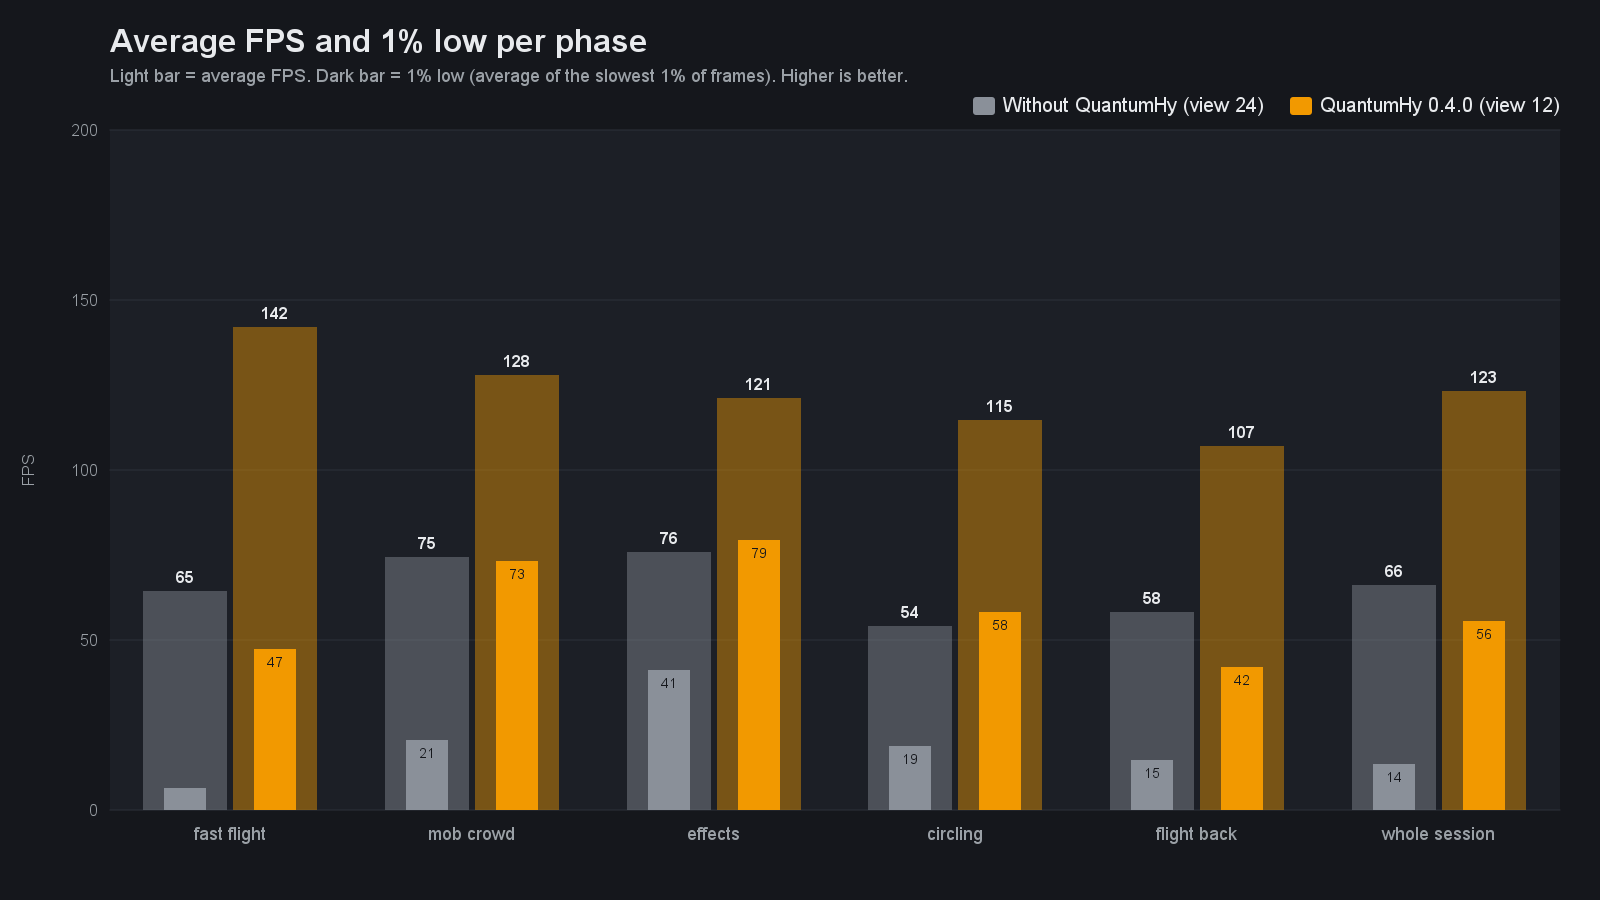
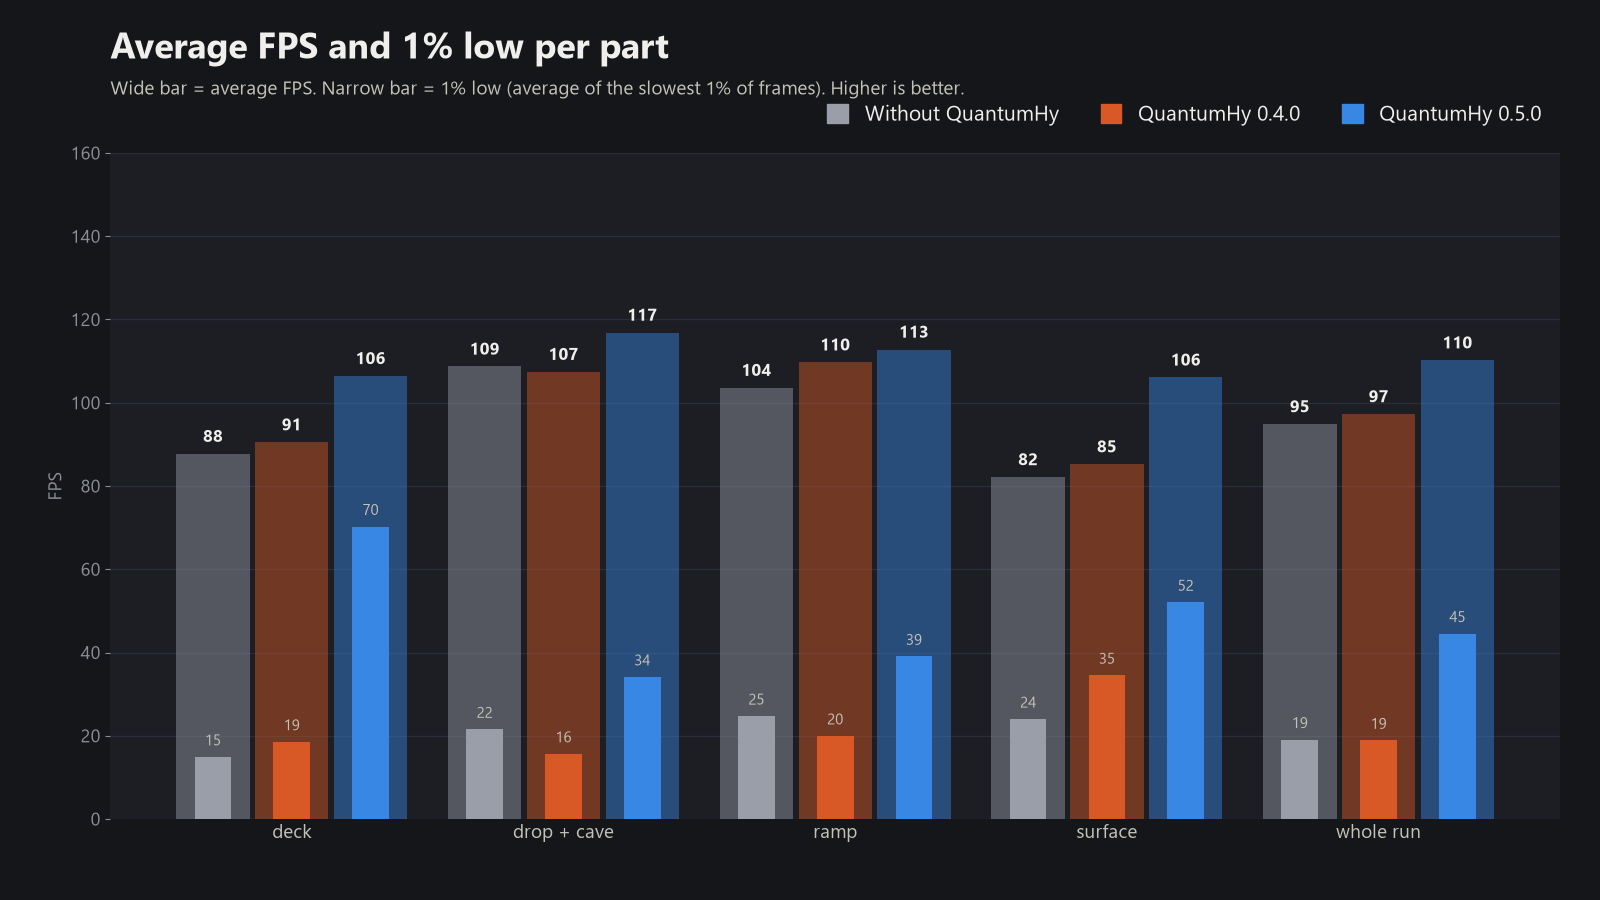
release: QuantumHy 0.5.0
Same view distance, fewer stutters: 1 frame over 100 ms versus
14 without the mod and 19 with 0.4.0 on the showcase route.

Restored sections near the player are now sent directly, so a
drop into a cave no longer stalls on a stone wall.

diff --git a/src/main/java/com/durkz/quantumhy/view/BuriedSectionFilter.java b/src/main/java/com/durkz/quantumhy/view/BuriedSectionFilter.java
@@ -4,6 +4,7 @@ import com.durkz.quantumhy.config.PlayerPreferences;
 import com.durkz.quantumhy.config.QuantumHyConfig;
 import com.hypixel.hytale.component.ArchetypeChunk;
 import com.hypixel.hytale.component.CommandBuffer;
+import com.hypixel.hytale.component.Ref;
 import com.hypixel.hytale.component.Store;
 import com.hypixel.hytale.component.query.Query;
 import com.hypixel.hytale.component.system.tick.EntityTickingSystem;
@@ -11,6 +12,7 @@ import com.hypixel.hytale.logger.HytaleLogger;
 import com.hypixel.hytale.math.vector.Transform;
 import com.hypixel.hytale.protocol.CachedPacket;
 import com.hypixel.hytale.protocol.Packet;
+import com.hypixel.hytale.protocol.ToClientPacket;
 import com.hypixel.hytale.protocol.packets.world.SetChunk;
 import com.hypixel.hytale.protocol.packets.world.SetColumn;
 import com.hypixel.hytale.protocol.packets.world.SetFluids;
@@ -21,11 +23,13 @@ import com.hypixel.hytale.server.core.modules.entity.player.ChunkTracker;
 import com.hypixel.hytale.server.core.universe.PlayerRef;
 import com.hypixel.hytale.server.core.universe.world.chunk.section.BlockSection;
 import com.hypixel.hytale.server.core.universe.world.chunk.section.FluidSection;
+import com.hypixel.hytale.server.core.universe.world.storage.ChunkStore;
 import com.hypixel.hytale.server.core.universe.world.storage.EntityStore;
 import io.netty.buffer.ByteBuf;
 import it.unimi.dsi.fastutil.ints.IntArrayList;
 import it.unimi.dsi.fastutil.longs.Long2IntMap;
 import it.unimi.dsi.fastutil.longs.Long2IntOpenHashMap;
+import it.unimi.dsi.fastutil.longs.LongArrayList;
 import it.unimi.dsi.fastutil.objects.ObjectIterator;
 
 import javax.annotation.Nonnull;
@@ -33,6 +37,7 @@ import javax.annotation.Nullable;
 import java.lang.foreign.MemorySegment;
 import java.lang.invoke.MethodHandles;
 import java.lang.invoke.VarHandle;
+import java.util.Arrays;
 import java.util.UUID;
 import java.util.concurrent.ConcurrentHashMap;
 import java.util.concurrent.atomic.LongAdder;
@@ -46,10 +51,13 @@ import java.util.function.Supplier;
  * dropped. The stand-in costs a few bytes and no meshing, while a real deep section carries caves,
  * ores, lava and aquifers the client would decode, mesh and keep in memory.
  *
- * The engine still thinks the real section was sent. {@link Restorer} asks the chunk tracker to
- * resend it ({@code removeForReload}) once the player comes within the near ring above it or drops
- * close to it, and this filter then lets the real packets through. Section packets are written one
- * by one through the single-packet path, so dropping one never leaves a hole in a batch.
+ * The engine still thinks the real section was sent. Once the player comes within the near ring
+ * above it or drops close to it, {@link Restorer} swaps it back, nearest first. Near-ring sections
+ * are written directly from the server's cached packets: the tracker's reload path waits behind
+ * everything a fall streams in, long enough for the player to walk into the stand-in. Farther
+ * sections go through the tracker ({@code removeForReload}) a few per pass, because a drop into a
+ * cave frees thousands of them at once and the client remeshes every one. Section packets are
+ * written one by one through the single-packet path, so dropping one never leaves a hole in a batch.
  */
 public final class BuriedSectionFilter implements PlayerPacketFilter {
 
@@ -139,6 +147,18 @@ public final class BuriedSectionFilter implements PlayerPacketFilter {
             REPLACED.increment();
         }
         return true;
+    }
+
+    private static void write(PlayerRef playerRef, @Nullable ToClientPacket packet) {
+        if (packet == null) {
+            return;
+        }
+        WRITING.set(Boolean.TRUE);
+        try {
+            playerRef.getPacketHandler().write(packet);
+        } finally {
+            WRITING.set(Boolean.FALSE);
+        }
     }
 
     /** Clears everything known about a player; their next column packets start fresh. */
@@ -288,9 +308,15 @@ public final class BuriedSectionFilter implements PlayerPacketFilter {
      */
     public final class Restorer extends EntityTickingSystem<EntityStore> {
         private static final int EVERY_TICKS = 6;
+        /** Near-ring sections the player can walk into, written directly each pass. */
+        static final int MAX_NEAR_PER_PASS = 64;
+        /** Sections outside the near ring, handed to the tracker each pass. */
+        static final int MAX_FAR_PER_PASS = 8;
         private final Query<EntityStore> query = Query.and(PlayerRef.getComponentType(),
                 Player.getComponentType(), ChunkTracker.getComponentType());
         private final IntArrayList reloads = new IntArrayList();
+        private final IntArrayList candidates = new IntArrayList();
+        private final LongArrayList order = new LongArrayList();
 
         @Override
         public Query<EntityStore> getQuery() {
@@ -320,12 +346,15 @@ public final class BuriedSectionFilter implements PlayerPacketFilter {
             double py = transform.getPosition().y;
             int pcx = (int) Math.floor(transform.getPosition().x) >> 5;
             int pcz = (int) Math.floor(transform.getPosition().z) >> 5;
+            int pcy = (int) Math.floor(py) >> 5;
             int near = settings.get().buriedSectionNearChunks;
             boolean optedOut = !preferences.isOptimizationEnabled(playerRef.getUuid());
             int forgetBeyond = Math.max(player.getViewRadius(), 1) + 3;
             // The engine writes section packets (and so runs this filter) while holding the tracker's
             // lock, so removeForReload must never be called while holding the state lock.
             reloads.clear();
+            candidates.clear();
+            order.clear();
             synchronized (state) {
                 ObjectIterator<Long2IntMap.Entry> it = state.replaced.long2IntEntrySet().fastIterator();
                 while (it.hasNext()) {
@@ -340,30 +369,72 @@ public final class BuriedSectionFilter implements PlayerPacketFilter {
                         continue;
                     }
                     int bits = entry.getIntValue();
-                    int keep = bits;
                     for (int y = 0; bits != 0; y++, bits >>>= 1) {
                         if ((bits & 1) != 0 && (optedOut || BuriedSectionPolicy.restore(y, py, ring, near))) {
-                            reloads.add(x);
-                            reloads.add(y);
-                            reloads.add(z);
-                            keep &= ~(1 << y);
+                            int distance = Math.max(ring, Math.abs(y - pcy));
+                            order.add((long) distance << 32 | candidates.size() / 3);
+                            candidates.add(x);
+                            candidates.add(y);
+                            candidates.add(z);
                         }
                     }
-                    if (keep == 0) {
-                        it.remove();
-                    } else if (keep != entry.getIntValue()) {
-                        entry.setValue(keep);
+                }
+                Arrays.sort(order.elements(), 0, order.size());
+                int nearLeft = MAX_NEAR_PER_PASS;
+                int farLeft = MAX_FAR_PER_PASS;
+                for (int i = 0; i < order.size() && (nearLeft > 0 || farLeft > 0); i++) {
+                    int at = (int) order.getLong(i) * 3;
+                    int x = candidates.getInt(at);
+                    int y = candidates.getInt(at + 1);
+                    int z = candidates.getInt(at + 2);
+                    boolean nearby = BuriedSectionPolicy.ring(x, z, pcx, pcz) <= near;
+                    if (nearby ? nearLeft-- <= 0 : farLeft-- <= 0) {
+                        continue;
                     }
+                    long column = key(x, z);
+                    int keep = state.replaced.get(column) & ~(1 << y);
+                    if (keep == 0) {
+                        state.replaced.remove(column);
+                    } else {
+                        state.replaced.put(column, keep);
+                    }
+                    reloads.add(x);
+                    reloads.add(y);
+                    reloads.add(z);
                 }
                 if (state.floors.size() > 4 * (forgetBeyond * 2 + 1) * (forgetBeyond * 2 + 1)) {
                     state.floors.long2IntEntrySet().removeIf(e -> BuriedSectionPolicy.ring(
                             (int) (e.getLongKey() >> 32), (int) e.getLongKey(), pcx, pcz) > forgetBeyond);
                 }
             }
+            ChunkStore chunks = store.getExternalData().getWorld().getChunkStore();
             for (int i = 0; i < reloads.size(); i += 3) {
-                tracker.removeForReload(reloads.getInt(i), reloads.getInt(i + 1), reloads.getInt(i + 2));
+                int x = reloads.getInt(i);
+                int y = reloads.getInt(i + 1);
+                int z = reloads.getInt(i + 2);
+                boolean nearby = BuriedSectionPolicy.ring(x, z, pcx, pcz) <= near;
+                // A column the client already dropped must not get a bare section packet.
+                if (!nearby || !tracker.isLoaded(x, y, z) || !sendReal(playerRef, chunks, x, y, z)) {
+                    tracker.removeForReload(x, y, z);
+                }
             }
             RESTORED.add(reloads.size() / 3);
+        }
+
+        /** Writes the server's cached packets for a loaded section; false when it is not loaded. */
+        private boolean sendReal(PlayerRef playerRef, ChunkStore chunks, int x, int y, int z) {
+            Ref<ChunkStore> ref = chunks.getChunkSectionReference(x, y, z);
+            if (ref == null || !ref.isValid()) {
+                return false;
+            }
+            BlockSection blocks = chunks.getStore().getComponent(ref, BlockSection.getComponentType());
+            FluidSection fluids = chunks.getStore().getComponent(ref, FluidSection.getComponentType());
+            if (blocks == null || fluids == null) {
+                return false;
+            }
+            blocks.getCachedChunkPacket(x, y, z).thenAccept(packet -> write(playerRef, packet));
+            fluids.getCachedPacket().thenAccept(packet -> write(playerRef, packet));
+            return true;
         }
     }
 }

diff --git a/README.md b/README.md
@@ -14,6 +14,8 @@ you are.
   backlog, visible entity pressure, and server MSPT instead.
 - `/q optimize off` disables every per-player lever for that player. Explicit server-wide admin
   controls such as world levers, spawn pause, and global LOD still affect the whole world.
+- Right after a long drop into a cave, the client rebuilds the terrain it had as stone. That can
+  cost a hitch or two before it settles.
 
 ## How it actually works
 
@@ -31,11 +33,13 @@ Two honest limits:
 ## What it does
 
 Every few seconds it checks how crowded the area around each player is (lots of entities means
-expensive to render) and turns that into one shrink factor for two levers: chunk view radius and
-entity stream radius.
+expensive to render) and shrinks the entity stream radius to match. Your chunk view radius stays
+where you set it. Terrain only gets trimmed after about 10 seconds of the client clearly falling
+behind, or while LeanCore reports memory pressure. If you want crowds to pull the view in as well,
+set `adaptiveTerrainViewEnabled` to `true`.
 
-- Packed area: both levers pull in toward the minimum. At full shrink the entity radius drops to
-  the floor in one pass, not over many ticks.
+- Packed area: the entity radius pulls in toward the minimum. At full shrink it drops to the floor
+  in one pass, not over many ticks.
 - Out in the open: expand is allowed only after load has been calm for a couple of passes, at least
   half the density scan is loaded, you are not flying, and the world is not hitching. Radius never
   jumps from min to full in one pass (at most +1 chunk per check).
@@ -52,6 +56,15 @@ instead of in one burst that makes the client hitch. That's the `smoothChunkStre
 
 On top of the radius it also:
 
+- Sends terrain buried under the surface as plain stone until you get close
+  (`buriedSectionStandInsEnabled`). Caves, ores and lava under your feet are hidden by the ground
+  anyway, so the view looks the same while the client skips building them. The real terrain comes
+  back as you walk up to it or drop toward it.
+- Runs the engine's light propagation through reusable buffers (`denseLightingEnabled`). On a
+  server build it doesn't recognize, the native lighting stays.
+- Keeps every visible chunk but limits simulation to 4 chunks around each player
+  (`simulationDistanceEnabled`). Gameplay further out pauses until someone gets closer.
+- Swaps goblin pipe smoke for a lighter copy with the same reach (`cosmeticSmokeBudgetEnabled`).
 - Caps the client's own draw distance and fog to the trimmed radius, so the client actually stops
   drawing what the server stopped sending (`clientRenderCapEnabled`).
 - Watches how fast each client answers the server and how many packets it has queued. A client
@@ -68,9 +81,14 @@ QuantumHy treats anyone else.
 
 ## Performance
 
-I played the same session twice on Hytale 0.7.0: once without QuantumHy, once with 0.4.0 on its
-default config. Same world, same path, same client settings, same PC. Frame times come straight
-from the Hytale client, captured with PresentMon (the capture tool inside CapFrameX).
+I walked the same route three times on Hytale 0.7.7: without QuantumHy, with 0.4.0 and with
+0.5.0. Same world, same path, same client settings (view distance 18), same PC, one game session,
+no screen recorder running. Frame times come straight from the Hytale client, captured with
+CapFrameX.
+
+0.5.0 ran its default config. 0.4.0 ran with terrain adaptation off (`adaptiveTerrainViewEnabled`
+and `emergencyTerrainTrimEnabled` set to `false`), so all three runs drew the same 18 chunks and
+the only difference is what each version does at that view distance.
 
 ### Test PC
 
@@ -80,31 +98,27 @@ from the Hytale client, captured with PresentMon (the capture tool inside CapFra
 | GPU | NVIDIA GeForce GTX 1650 4GB |
 | RAM | 16 GB (2×8 GB) |
 
-### What I did in each part
+### The route
 
-- **Fast flight (60 s):** flew in a straight line over terrain nobody had loaded yet, much faster
-  than you can sprint, so new chunks have to be generated and sent the whole time.
-- **Mob crowd (90 s):** stopped and spawned about 150 animals around me (sheep, cows, pigs, goats,
-  chickens, boars).
-- **Effects (60 s):** stayed on the crowd and spammed explosions, fire and hit particles on top of it.
-- **Circling (60 s):** flew laps around the crowd with lighter effects still going, so the camera
-  keeps sweeping across the mobs.
-- **Flight back (60 s):** flew back the same way I came.
+- **Deck (55 s):** walked down a long deck with fire, explosions and animals on both sides.
+- **Drop + cave (40 s):** dropped down a shaft into a cave and walked a long corridor through it.
+- **Ramp (24 s):** climbed a ramp back up to the surface.
+- **Surface (27 s):** walked a path on the surface to the end.
 
 ### Results
 
-| Part | Without QuantumHy (avg / 1% low) | QuantumHy 0.4.0 (avg / 1% low) | Frames over 50 ms |
-| --- | ---: | ---: | ---: |
-| Fast flight | 65 / 7 | 142 / 48 | 40 → 1 |
-| Mob crowd | 75 / 21 | 128 / 73 | 6 → 0 |
-| Effects | 76 / 41 | 121 / 79 | 0 → 0 |
-| Circling | 54 / 19 | 115 / 58 | 12 → 0 |
-| Flight back | 58 / 15 | 107 / 42 | 30 → 1 |
-| **Whole session** | **66 / 14** | **123 / 56** | **88 → 2** |
+| Part | Without QuantumHy (avg / 1% low) | QuantumHy 0.4.0 (avg / 1% low) | QuantumHy 0.5.0 (avg / 1% low) | Frames over 50 ms |
+| --- | ---: | ---: | ---: | ---: |
+| Deck | 88 / 15 | 91 / 19 | 106 / 70 | 12 / 7 / 0 |
+| Drop + cave | 109 / 22 | 107 / 16 | 117 / 34 | 3 / 9 / 3 |
+| Ramp | 104 / 25 | 110 / 20 | 113 / 39 | 1 / 4 / 1 |
+| Surface | 82 / 24 | 85 / 35 | 106 / 52 | 1 / 0 / 0 |
+| **Whole run** | **95 / 19** | **97 / 19** | **110 / 45** | **17 / 20 / 4** |
 
 1% low is the average of the slowest 1% of frames, the number that tells you how bad the stutters get.
+Frames over 50 ms are listed as without / 0.4.0 / 0.5.0.
 
-![FPS over the whole session](docs/benchmark/fps-timeline.png)
+![FPS along the route](docs/benchmark/fps-timeline.png)
 
 ![Average FPS and 1% low per part](docs/benchmark/fps-summary.png)
 
@@ -112,12 +126,13 @@ from the Hytale client, captured with PresentMon (the capture tool inside CapFra
 
 ### Where the frames come from
 
-- Without QuantumHy the client drew a view of 24 chunks and got every mob within 768 blocks. With
-  QuantumHy it settled at 12 chunks and mobs within 48 blocks (about 190 visible entities down to
-  about 50). That is the trade: you see less far, and the crowd stops costing you frames.
-- In the fast flight the edge of the view loads a little behind you, because nobody moves that
-  fast in survival. Normal sprinting (7 blocks/s) is well inside what the chunk stream keeps up with.
-- One session per setup, so differences under ~5% would be noise. The gaps above are not.
+- Same view distance in all three runs, so none of this comes from seeing less. Most of the 0.5.0
+  lead comes from the client not building the buried terrain under the route. Turning
+  `buriedSectionStandInsEnabled` off in a separate test took most of it away.
+- Frames over 100 ms went from 14 without QuantumHy and 19 with 0.4.0 down to 1 with 0.5.0. A
+  second 0.5.0 run gave 3.
+- One run per setup, so differences under ~5% would be noise. The gaps in 1% low and stutters are
+  not.
 
 ## Config
 
@@ -133,7 +148,7 @@ Lives in `QuantumHy.json` in the plugin data folder, created on first run.
 | `targetClientViewRadius` | `0` | Hard cap in chunks. `0` means no cap, just adapt. |
 | `minClientViewRadius` | `6` | Never pull anyone below this. |
 | `maxClientViewRadius` | `32` | Ceiling for the hard cap (your own view radius still wins). |
-| `adaptiveTerrainViewEnabled` | `true` | Adapt terrain view radius during normal play. |
+| `adaptiveTerrainViewEnabled` | `false` | Let crowds trim the terrain view radius during normal play. Off so your view distance is respected. |
 | `emergencyTerrainTrimEnabled` | `true` | Allow temporary terrain trim after sustained visual pressure. |
 | `clientRenderCapEnabled` | `true` | Cap the client's draw distance and fog to the trimmed radius. Restart required. |
 | `clientStrainEnabled` | `true` | Ease the radius and chunk rate for a client that falls behind. Restart required. |
@@ -146,6 +161,12 @@ Lives in `QuantumHy.json` in the plugin data folder, created on first run.
 | `effectProtectRadius` | `16` | Effects within this many blocks are never dropped. |
 | `effectSoftRadius` | `48` | Once half the budget is spent, effects beyond this are dropped first. |
 | `effectMaxDistance` | `0` | Hard cut-off in blocks for positional effects. `0` = budget only. |
+| `buriedSectionStandInsEnabled` | `true` | Send buried terrain below you as plain stone until you get close. Restart required. |
+| `buriedSectionNearChunks` | `4` | Columns within this many chunks get real terrain down to 48 blocks below you. |
+| `denseLightingEnabled` | `true` | Run native light propagation through reusable buffers. Restart required. |
+| `simulationDistanceEnabled` | `true` | Keep visible terrain but limit simulation around each player. |
+| `simulationDistanceChunks` | `4` | Simulation radius in chunks, capped by the player's own simulation radius. |
+| `cosmeticSmokeBudgetEnabled` | `true` | Use a lighter copy of goblin pipe smoke with the same reach. Restart required. |
 | `distantUpdateThrottleEnabled` | `false` | Send position updates for far entities less often. The latest position always arrives. Restart required. |
 | `distantUpdateNearBlocks` | `32` | Entities closer than this get every update. |
 | `distantUpdateFarBlocks` | `64` | Entities beyond this get every 4th update. |
